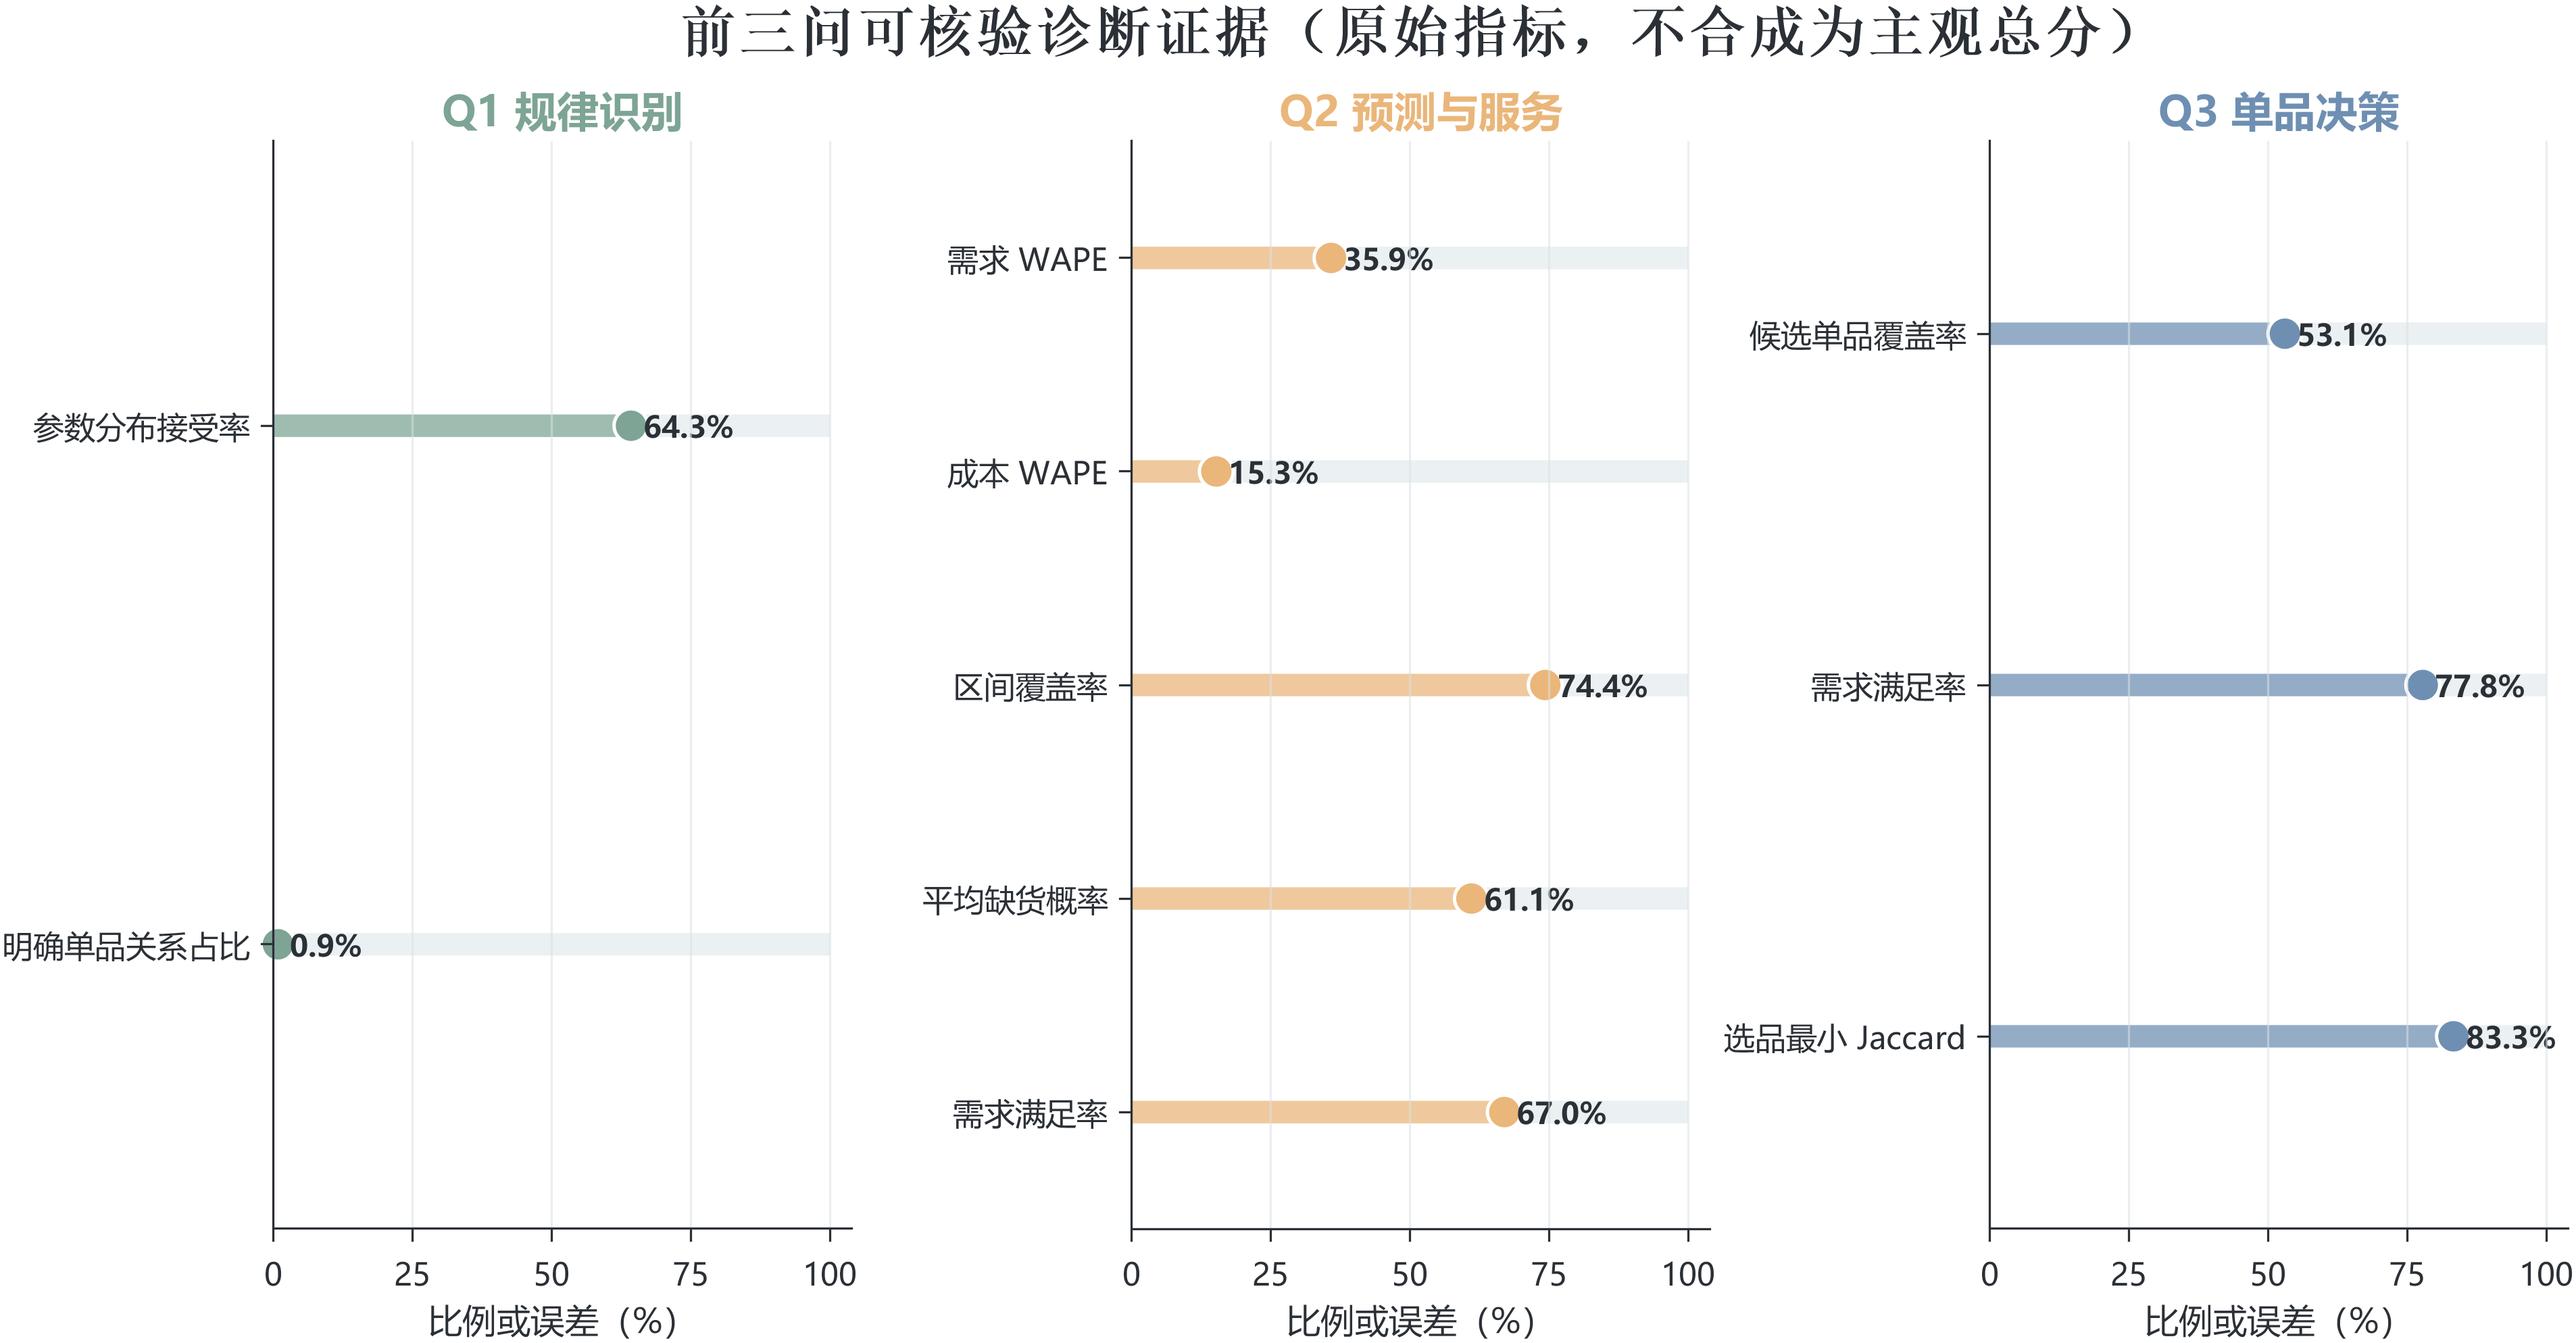
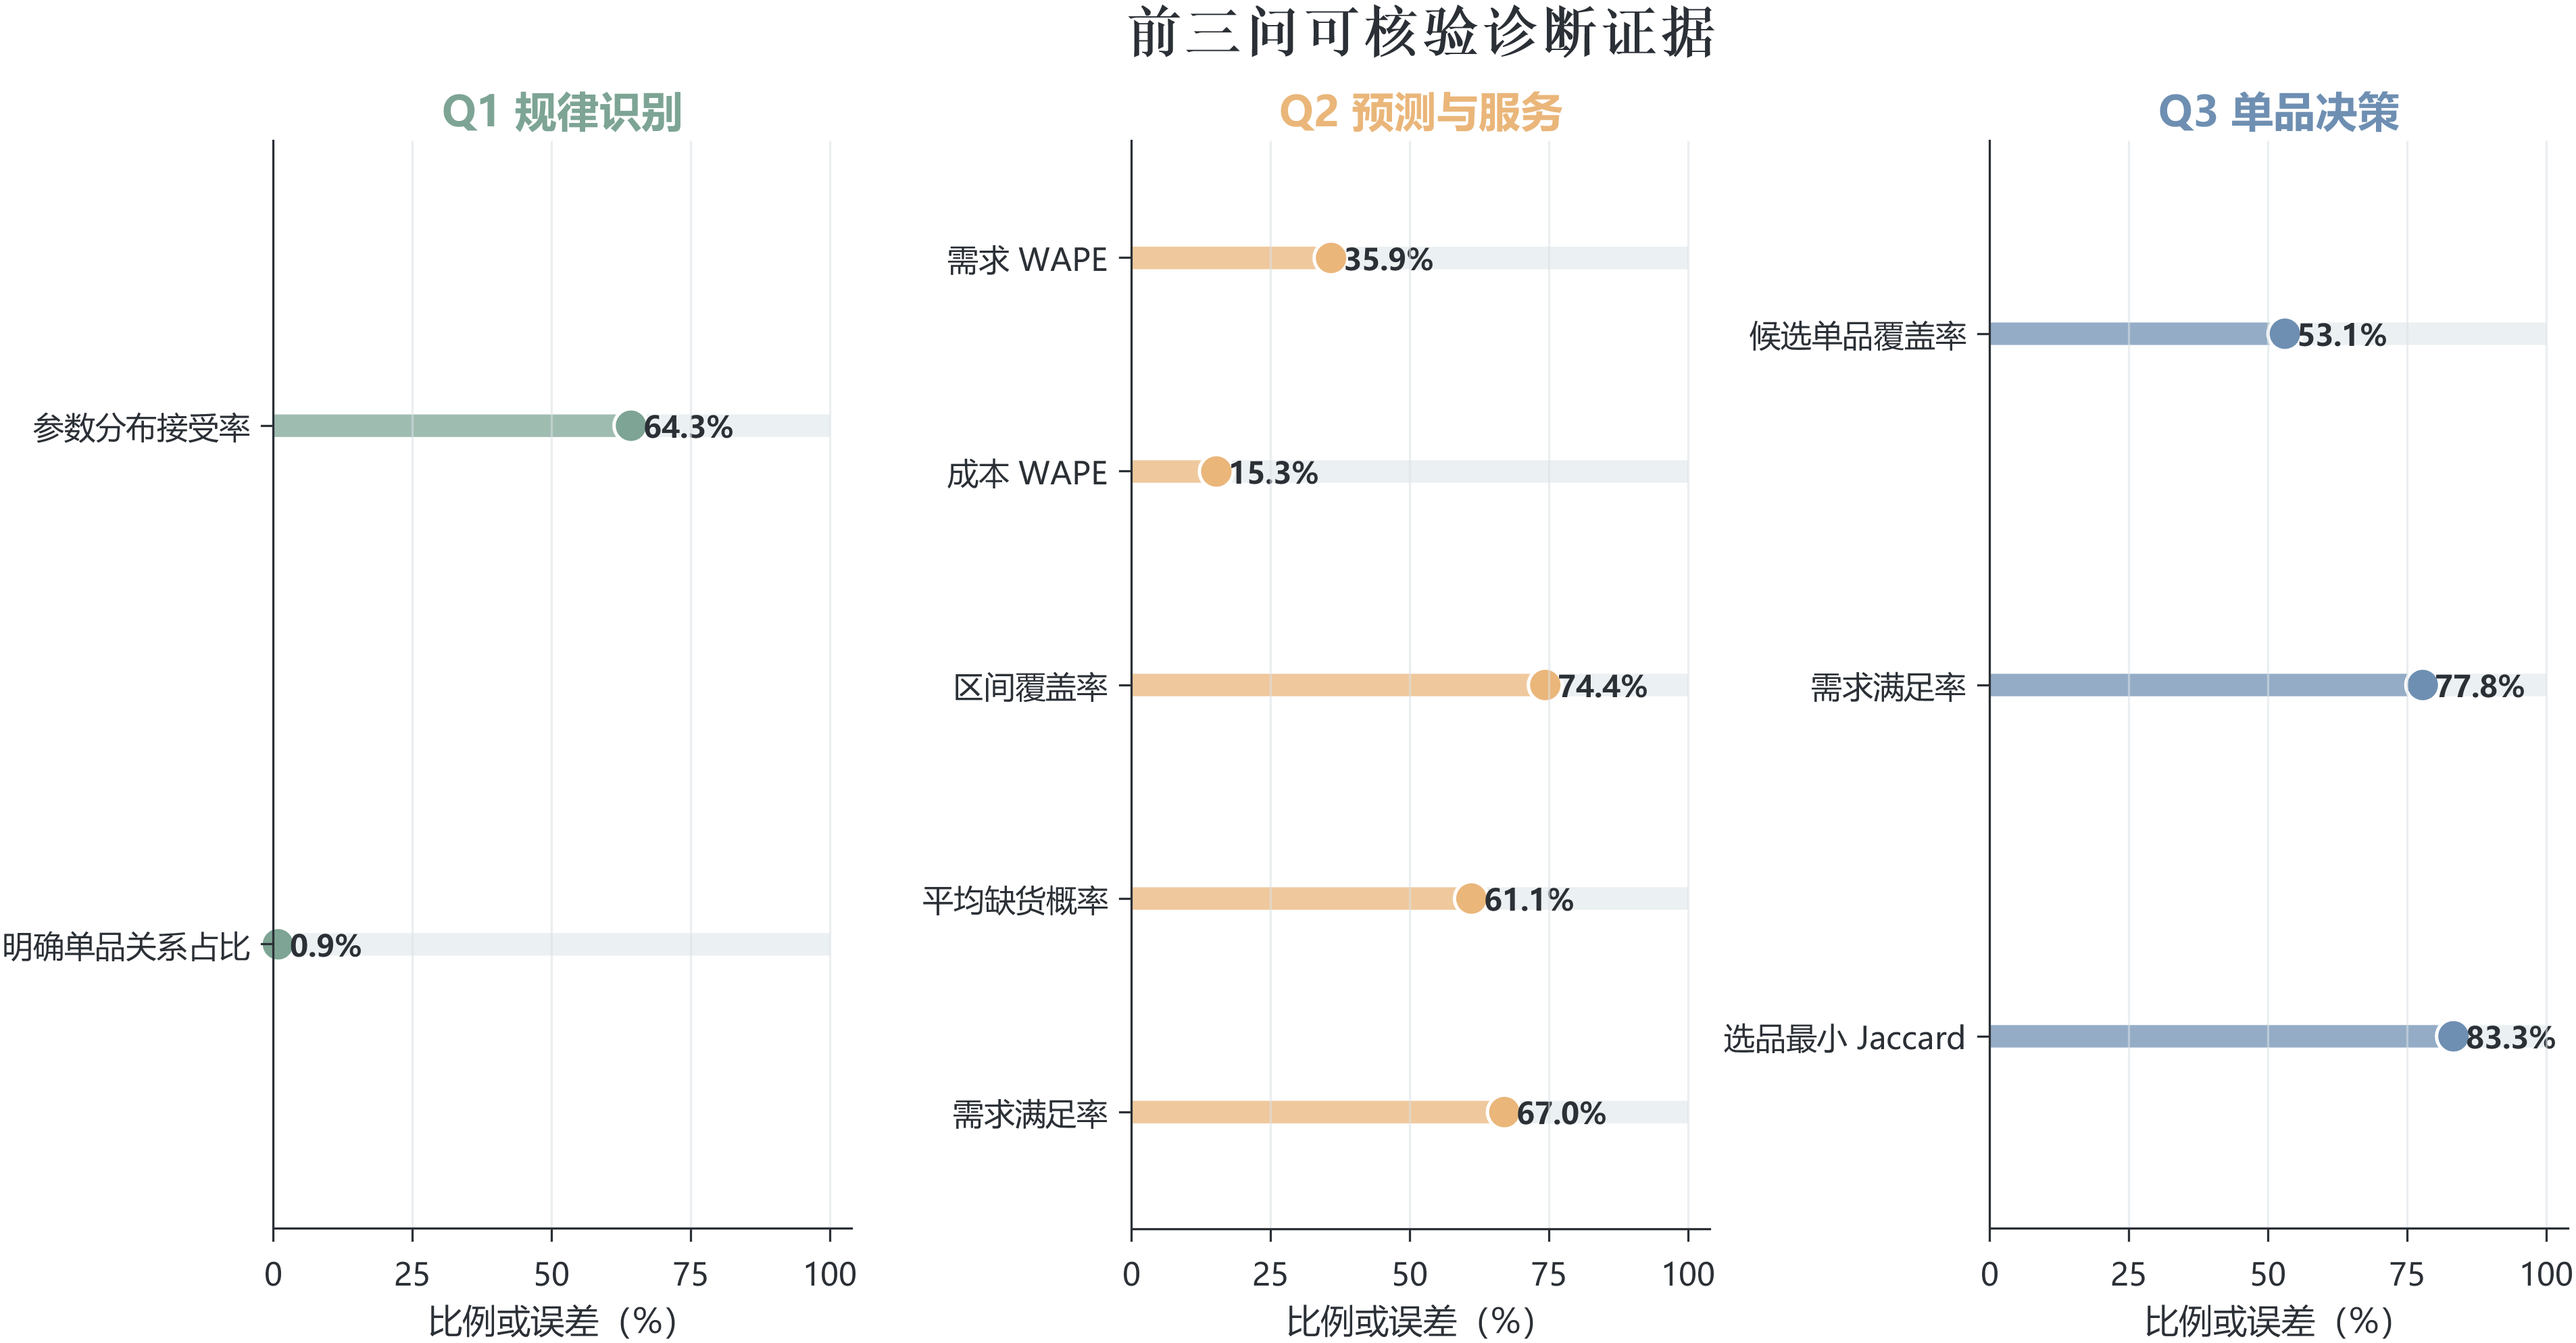
fix: simplify Q4 chart title

Changed region(s): [[0.3122, 0.0, 0.8116, 0.0624], [0.2497, 0.0, 0.281, 0.0312]]

diff --git a/questions/q4/code/plot_q4_matlab.m b/questions/q4/code/plot_q4_matlab.m
@@ -70,7 +70,7 @@ evidenceColors = [
 
 fig = figure('Color',paperBg,'Position',[70 80 1680 760]);
 t = tiledlayout(fig,1,3,'TileSpacing','compact','Padding','compact');
-title(t,'前三问可核验诊断证据（原始指标，不合成为主观总分）', ...
+title(t,'前三问可核验诊断证据', ...
     'FontSize',20,'FontWeight','bold','Color',ink);
 panelGroups = {1:2,3:7,8:10};
 panelTitles = {'Q1 规律识别','Q2 预测与服务','Q3 单品决策'};
